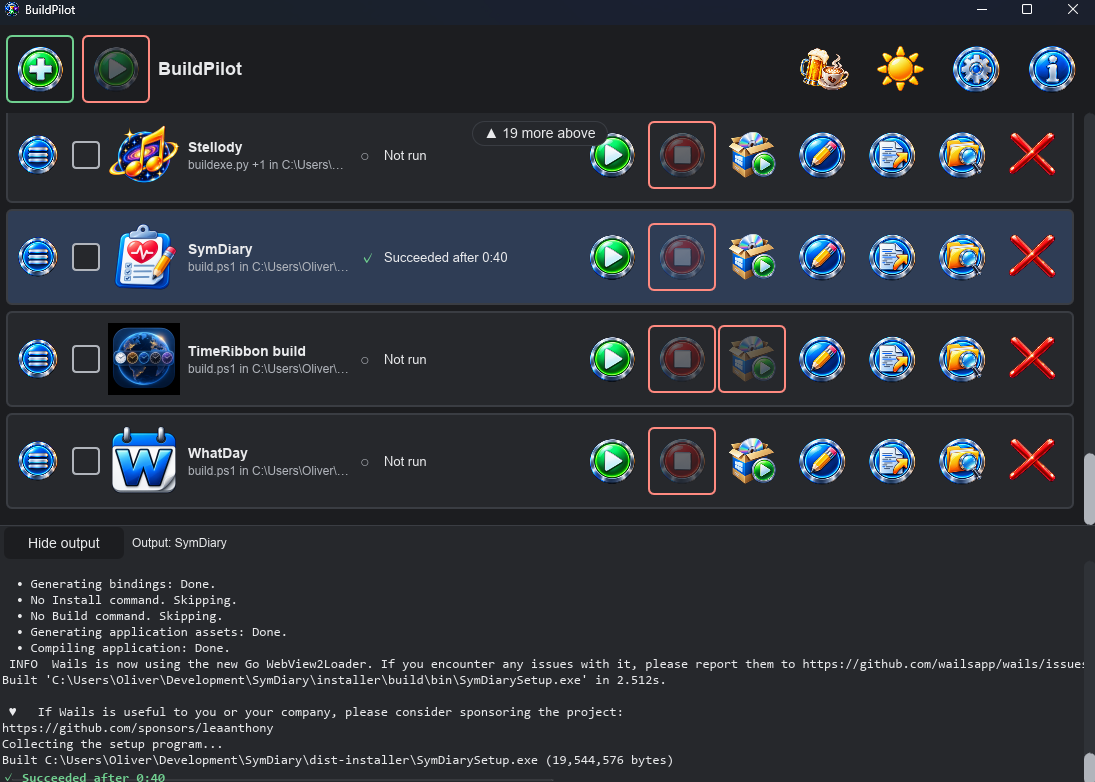
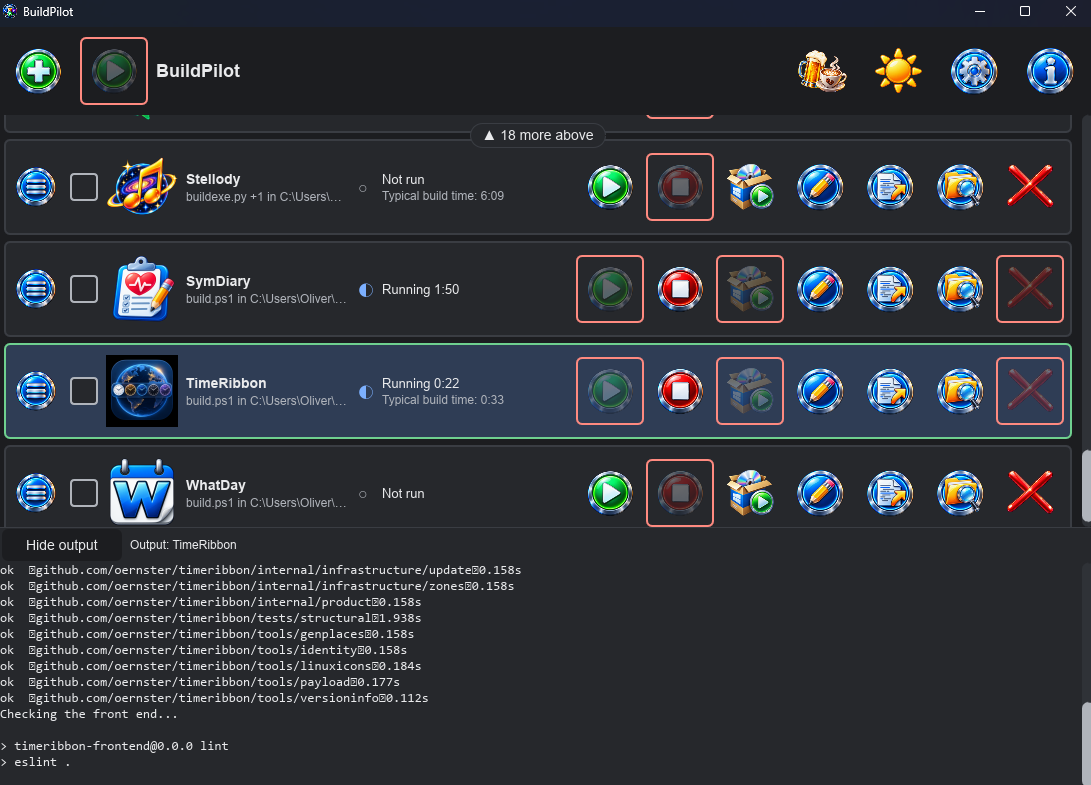
Refresh the primary screenshot to show the typical build time
The hero image now shows two builds running, one beside its typical time, and a row at rest still carrying its typical time after a restart; its description says so.

diff --git a/docs/index.html b/docs/index.html
@@ -62,7 +62,7 @@
             </div>
         </div>
         <figure class="shot">
-            <img src="screenshots/screenshot.png" alt="The BuildPilot window scrolled to the foot of a long list, a pill at the top counting the 19 rows above. SymDiary's build has just succeeded after 40 seconds; its output is open in the tray below, ending with the setup program it built and the outcome in green. Stop is greyed out with a red ring on every row, since nothing is running; so is Launch installer on the one row with no installer to launch.">
+            <img src="screenshots/screenshot.png" alt="The BuildPilot window scrolled to the foot of a long list, a pill at the top counting the 18 rows above. TimeRibbon is selected and running at 0:22, its typical build time of 0:33 beneath; SymDiary is running at 1:50 with no typical time yet. Stellody has not run since BuildPilot started, yet still shows its typical build time of 6:09. TimeRibbon's test output scrolls in the tray below. Run, Launch installer and Remove are greyed out with a red ring on the running rows; Stop is on the rows at rest.">
         </figure>
     </div>
 
